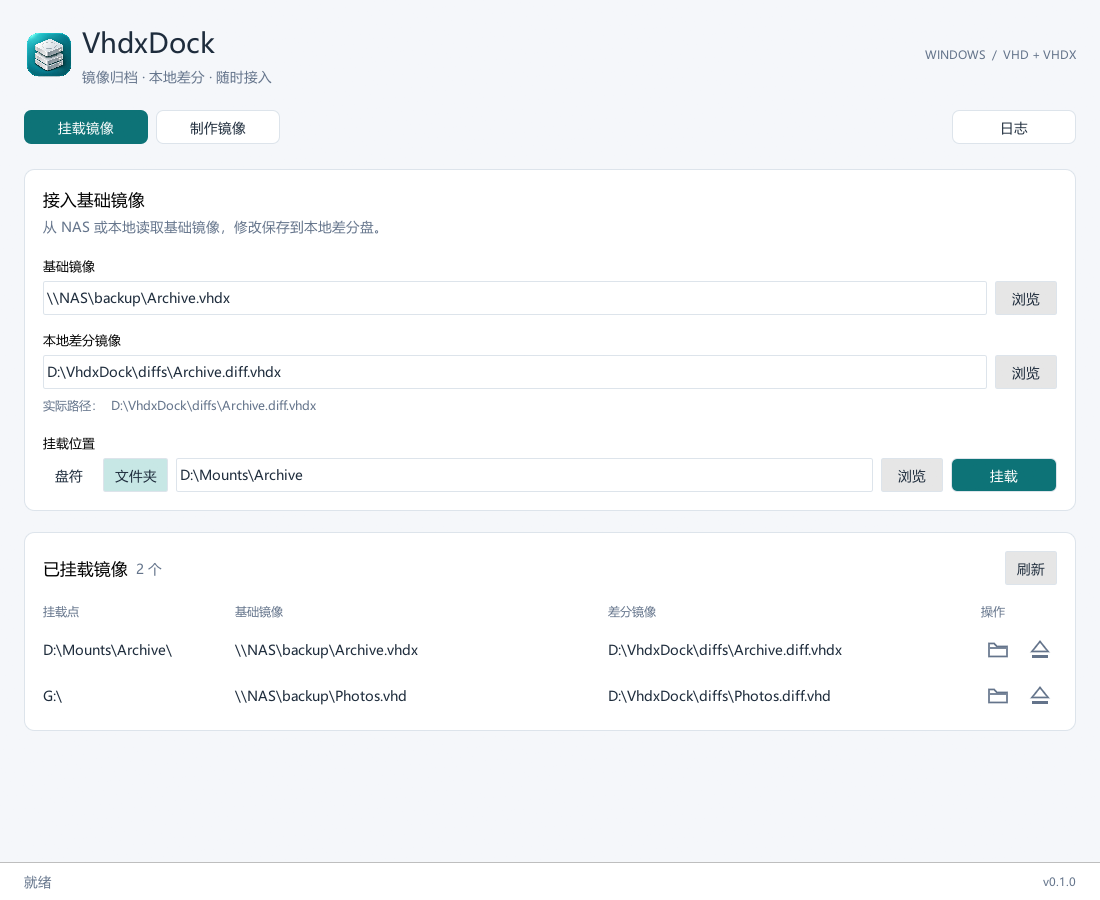
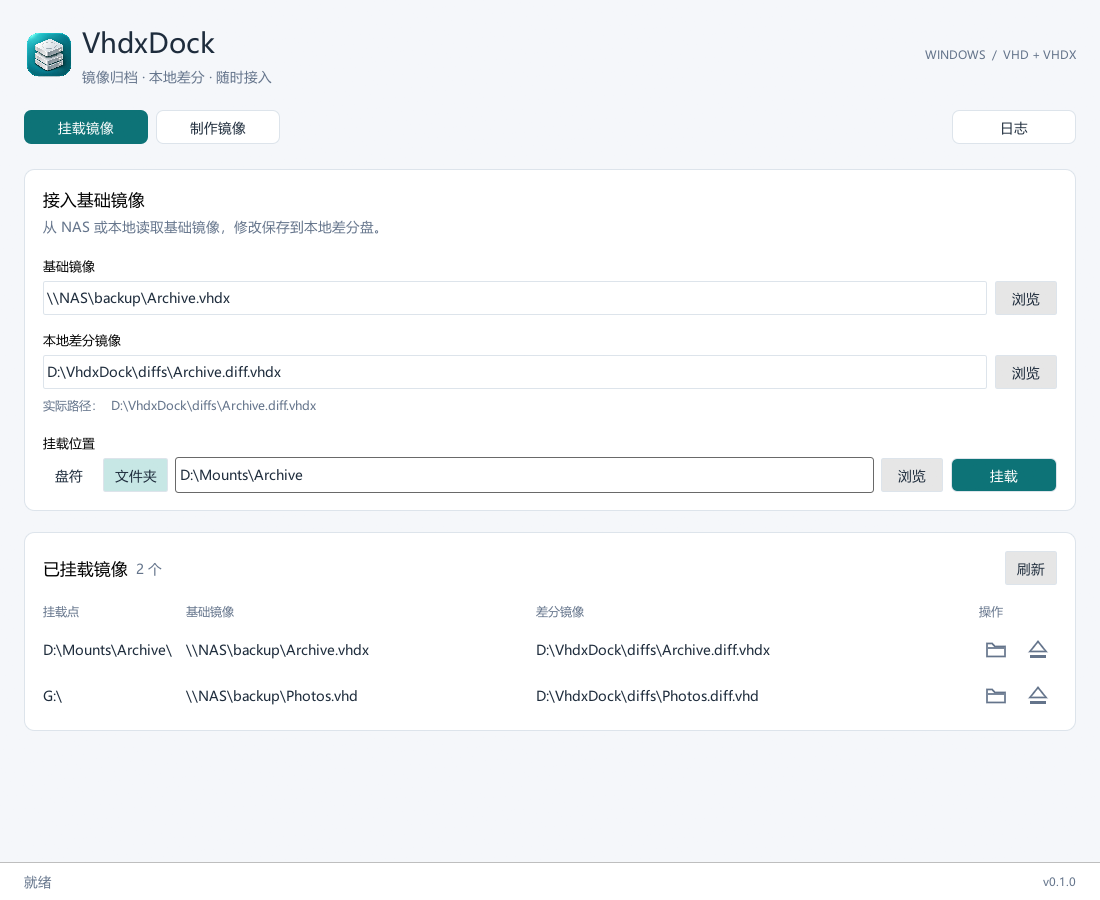
Size mounted image columns by content and remove duplicate tooltips

diff --git a/src/app.rs b/src/app.rs
@@ -820,16 +820,71 @@ impl DockApp {
                 ui.add_space(20.0);
             } else {
                 let available = ui.available_width();
-                let location_width = (available * 0.22).clamp(110.0, 180.0);
                 let actions_width = 2.0 * CONTROL_HEIGHT + ui.spacing().item_spacing.x;
-                let path_width =
-                    ((available - location_width - actions_width - 36.0) / 2.0).max(100.0);
+                let headers = ["挂载点", "基础镜像", "差分镜像", "操作"];
+                let measure = |text: String, font| {
+                    ui.painter()
+                        .layout_no_wrap(text, font, TEXT)
+                        .size()
+                        .x
+                        .ceil()
+                        + 2.0
+                };
+                let mut desired: [f32; 3] = std::array::from_fn(|column| {
+                    measure(headers[column].into(), egui::FontId::proportional(12.0))
+                });
+                let font = egui::TextStyle::Body.resolve(ui.style());
+                for disk in &self.disks {
+                    let values = [
+                        if disk.volumes.is_empty() {
+                            "—".into()
+                        } else {
+                            disk.volumes.join("  ")
+                        },
+                        disk.parent_path
+                            .as_ref()
+                            .unwrap_or(&disk.image_path)
+                            .display()
+                            .to_string(),
+                        if disk.parent_path.is_some() {
+                            disk.image_path.display().to_string()
+                        } else {
+                            "—".into()
+                        },
+                    ];
+                    for (column, value) in values.into_iter().enumerate() {
+                        desired[column] = desired[column].max(measure(value, font.clone()));
+                    }
+                }
+                // Keep short columns at their natural width. Under pressure,
+                // reserve readable space before sharing the rest by demand.
+                let budget = (available - actions_width - 3.0 * 12.0 - 2.0).max(0.0);
+                let minimum = desired.map(|width| width.min(100.0));
+                let minimum_total: f32 = minimum.iter().sum();
+                let desired_total: f32 = desired.iter().sum();
+                let widths = if desired_total <= budget {
+                    let extra = budget - desired_total;
+                    let path_total = desired[1] + desired[2];
+                    [
+                        desired[0],
+                        desired[1] + extra * desired[1] / path_total,
+                        desired[2] + extra * desired[2] / path_total,
+                    ]
+                } else if minimum_total < budget {
+                    let fraction = (budget - minimum_total) / (desired_total - minimum_total);
+                    std::array::from_fn(|column| {
+                        minimum[column] + (desired[column] - minimum[column]) * fraction
+                    })
+                } else {
+                    minimum.map(|width| width * budget / minimum_total)
+                };
                 egui::Grid::new("mounted_images")
                     .num_columns(4)
+                    .min_col_width(0.0)
                     .spacing([12.0, 12.0])
                     .striped(true)
                     .show(ui, |ui| {
-                        for header in ["挂载点", "基础镜像", "差分镜像", "操作"] {
+                        for header in headers {
                             ui.label(RichText::new(header).size(12.0).color(MUTED));
                         }
                         ui.end_row();
@@ -841,7 +896,7 @@ impl DockApp {
                                 } else {
                                     disk.volumes.join("  ")
                                 },
-                                location_width,
+                                widths[0],
                             );
                             truncated_path(
                                 ui,
@@ -851,7 +906,7 @@ impl DockApp {
                                     .unwrap_or(&disk.image_path)
                                     .display()
                                     .to_string(),
-                                path_width,
+                                widths[1],
                             );
                             truncated_path(
                                 ui,
@@ -860,13 +915,10 @@ impl DockApp {
                                 } else {
                                     "—".into()
                                 },
-                                path_width,
+                                widths[2],
                             );
                             ui.allocate_ui_with_layout(
-                                Vec2::new(
-                                    2.0 * CONTROL_HEIGHT + ui.spacing().item_spacing.x,
-                                    CONTROL_HEIGHT,
-                                ),
+                                Vec2::new(actions_width, CONTROL_HEIGHT),
                                 egui::Layout::left_to_right(egui::Align::Center),
                                 |ui| {
                                     if icon_button(
@@ -1557,8 +1609,7 @@ fn truncated_path(ui: &mut egui::Ui, path: &str, width: f32) {
         egui::Layout::left_to_right(egui::Align::Center),
         |ui| {
             ui.set_min_width(width);
-            ui.add(egui::Label::new(path).truncate().halign(egui::Align::Min))
-                .on_hover_text(path);
+            ui.add(egui::Label::new(path).truncate().halign(egui::Align::Min));
         },
     );
 }
@@ -2024,6 +2075,16 @@ mod tests {
             egui::CentralPanel::default().show(ctx, |ui| app.mounted_list(ui));
         });
         assert!(text_rect(&output.shapes, "操作").right() < 860.0);
+        assert!(
+            text_rect(&output.shapes, "操作").left() + 2.0 * CONTROL_HEIGHT + 8.0 < 840.0,
+            "Both action icons must remain inside the narrow window"
+        );
+        assert!(
+            text_rect(&output.shapes, "基础镜像").left()
+                - text_rect(&output.shapes, "挂载点").left()
+                > 180.0,
+            "A long folder mount should receive more than the former fixed column limit"
+        );
         assert!(rendered_text(&output.shapes).contains("挂载点"));
         app.eject = Some(EjectConfirmation {
             image: mounted,
@@ -2065,6 +2126,22 @@ mod tests {
         assert!(text.contains("G:\\"), "{text}");
         assert!(text.contains(r"D:\Diff\alpha.vhdx"), "{text}");
         assert!(text.contains(r"\\NAS\backup\beta.vhdx"), "{text}");
+        let mount_header = text_rect(&output.shapes, "挂载点");
+        let base_header = output
+            .shapes
+            .iter()
+            .filter_map(|clipped| match &clipped.shape {
+                egui::Shape::Text(shape) if shape.galley.job.text == "基础镜像" => {
+                    Some(shape.pos.x)
+                }
+                _ => None,
+            })
+            .next_back()
+            .unwrap();
+        assert!(
+            base_header - mount_header.left() < 100.0,
+            "Short drive-letter mounts should not reserve a large empty column"
+        );
     }
 
     #[test]

diff --git a/README.md b/README.md
@@ -23,7 +23,7 @@ Windows 便携式 VHDX 镜像制作与 VHD/VHDX 差分挂载工具。
 - **挂载**：基础镜像、本地差分两条路径；差分不存在自动创建，存在则验证父链后复用。基础镜像搬迁后，直接填写新地址挂载即可。
 - **挂载位置**：可使用自动或指定盘符，也可挂载到本地 NTFS 卷上的空文件夹；文件夹模式不分配盘符。
 - **格式**：挂载 VHD / VHDX，新制作统一输出动态 VHDX。
-- **多磁盘管理**：已挂载列表按挂载点、基础镜像、差分镜像、操作四列展示，每行提供打开和弹出图标；弹出必须二次确认，繁忙卷拒绝卸载。
+- **多磁盘管理**：已挂载列表按挂载点、基础镜像、差分镜像、操作四列展示，列宽随内容和窗口自动调整，截断路径悬停可查看完整内容。每行提供打开和弹出图标；弹出必须二次确认，繁忙卷拒绝卸载。
 - **制作**：源目录内容直接放进镜像根目录，包括隐藏文件、`.git`、空目录，链接按链接保留。
 - **卷标**：制作时可自定义 Windows 磁盘名称，直接写入基础镜像；留空则使用输出镜像文件名（不含 `.vhdx`）。
 - **压缩**：GPT + NTFS，默认开启镜像内部 NTFS 压缩。
